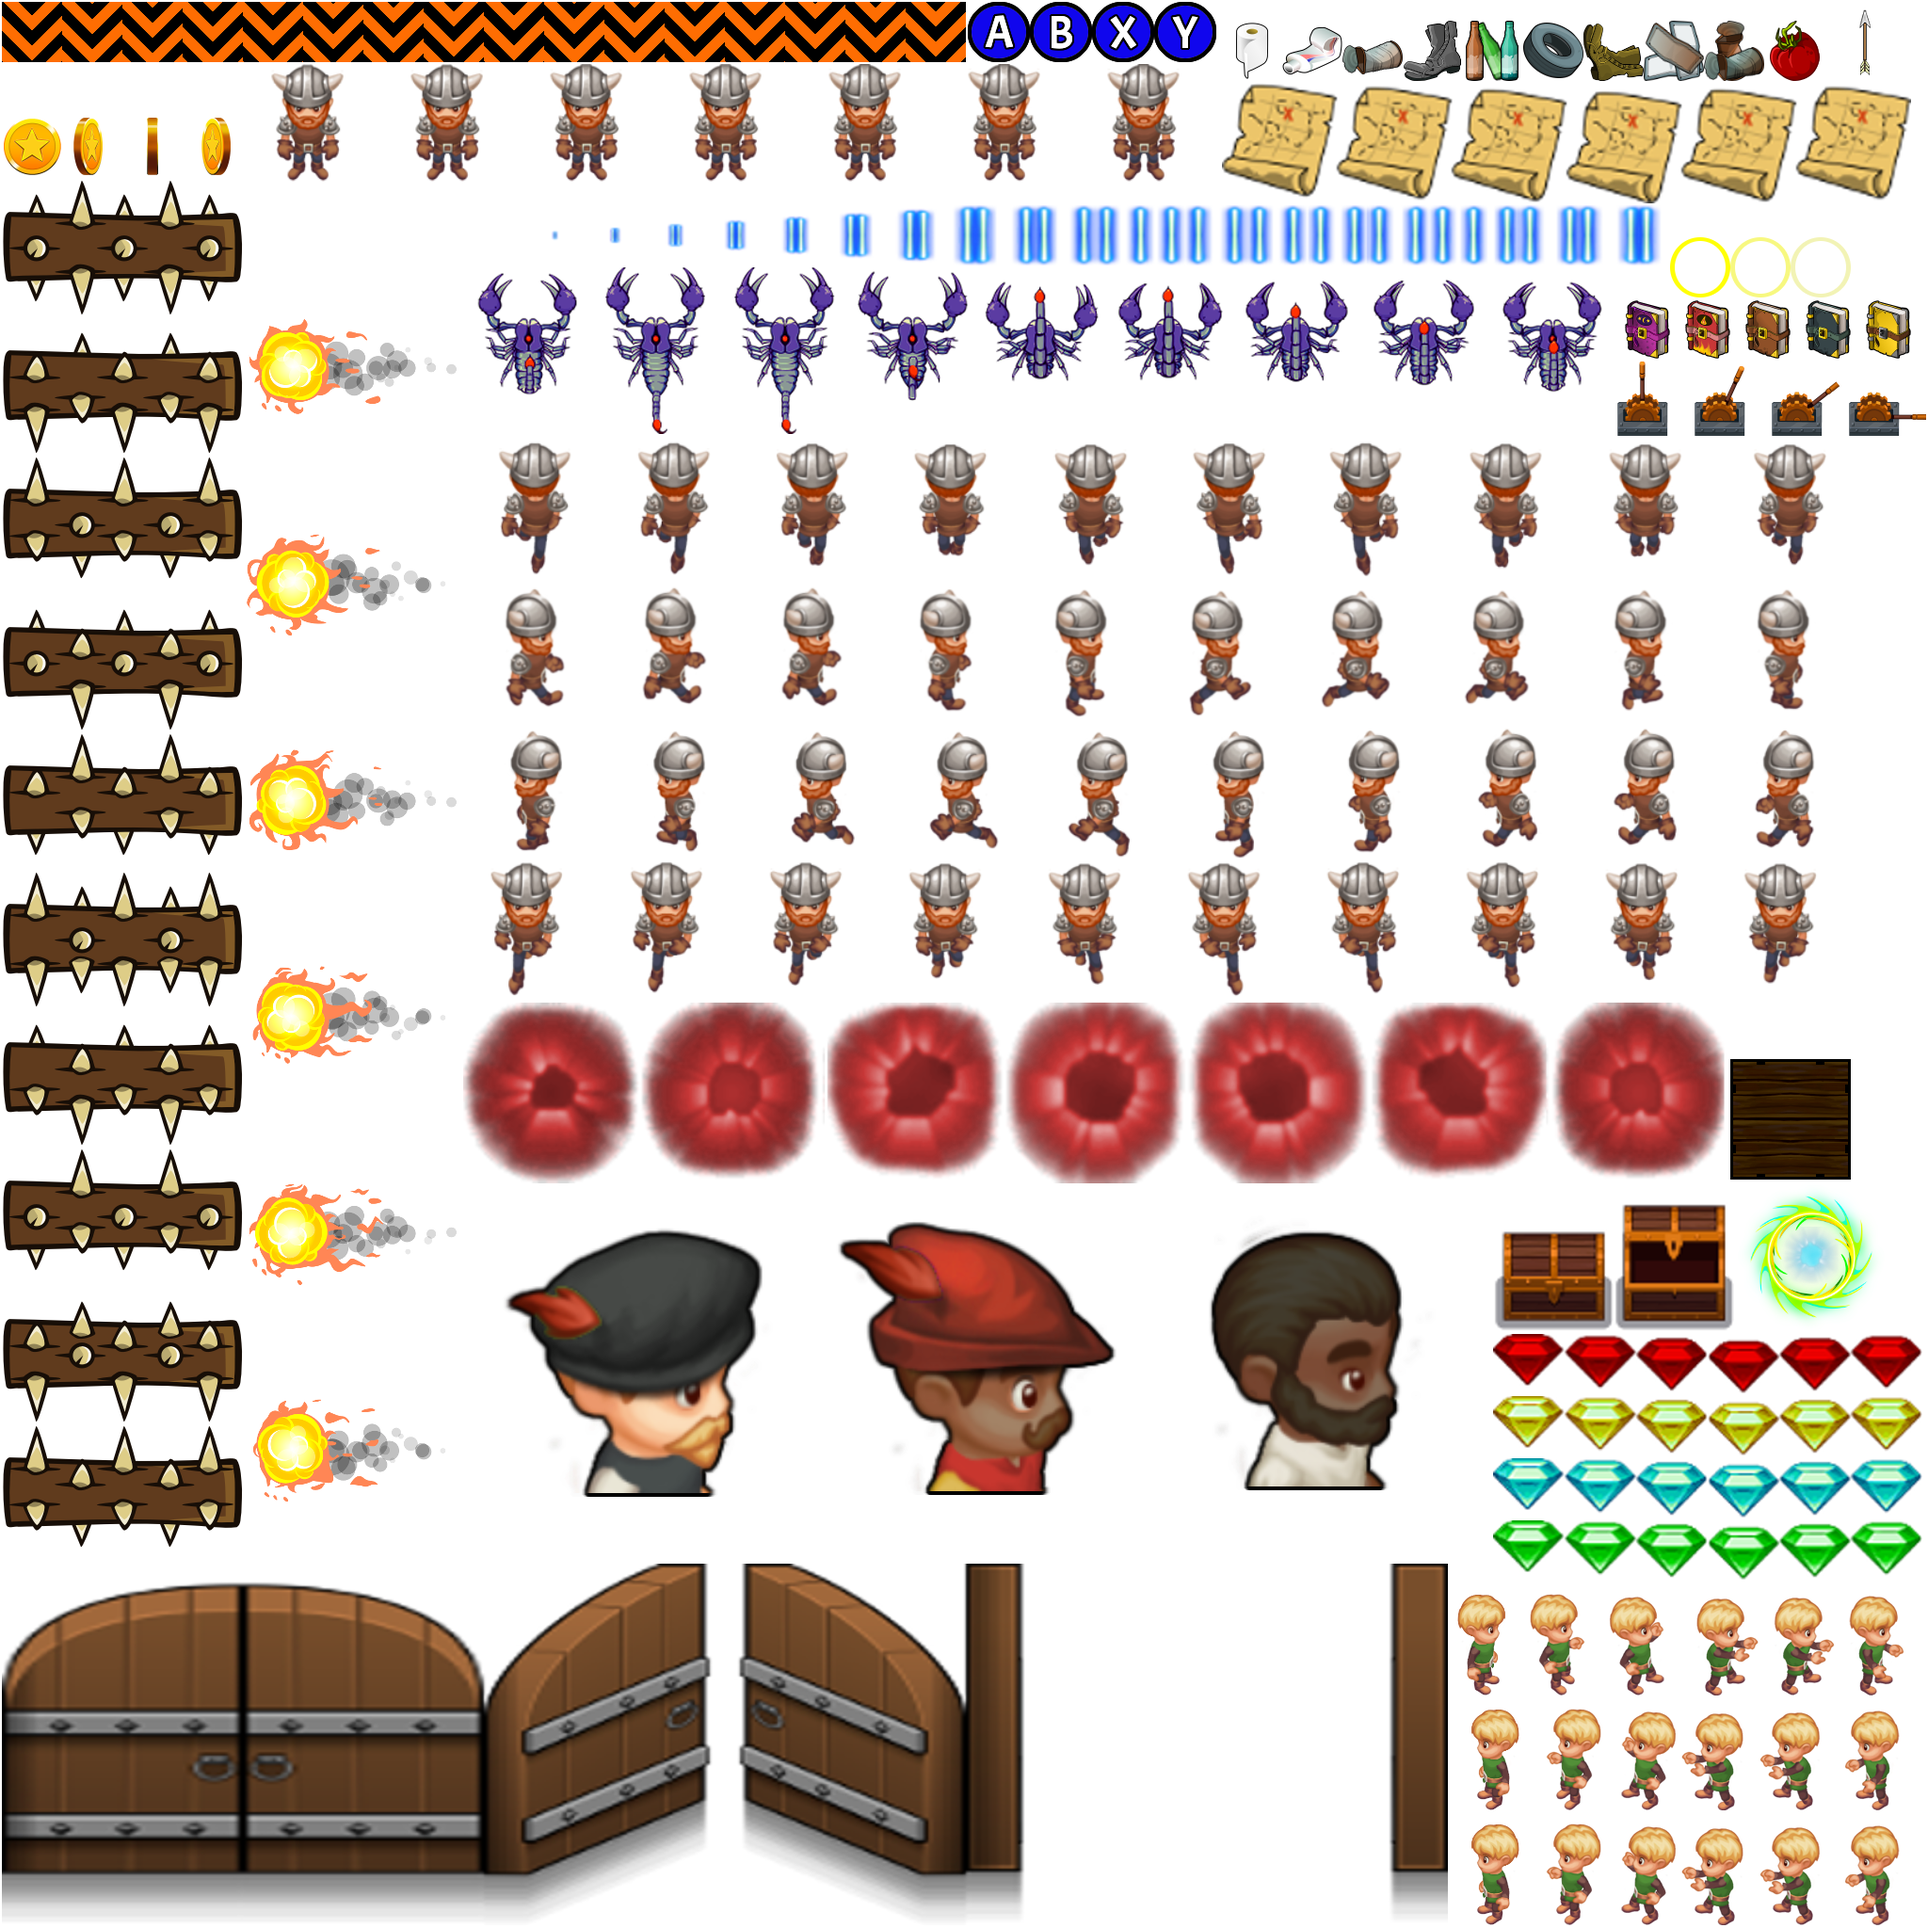
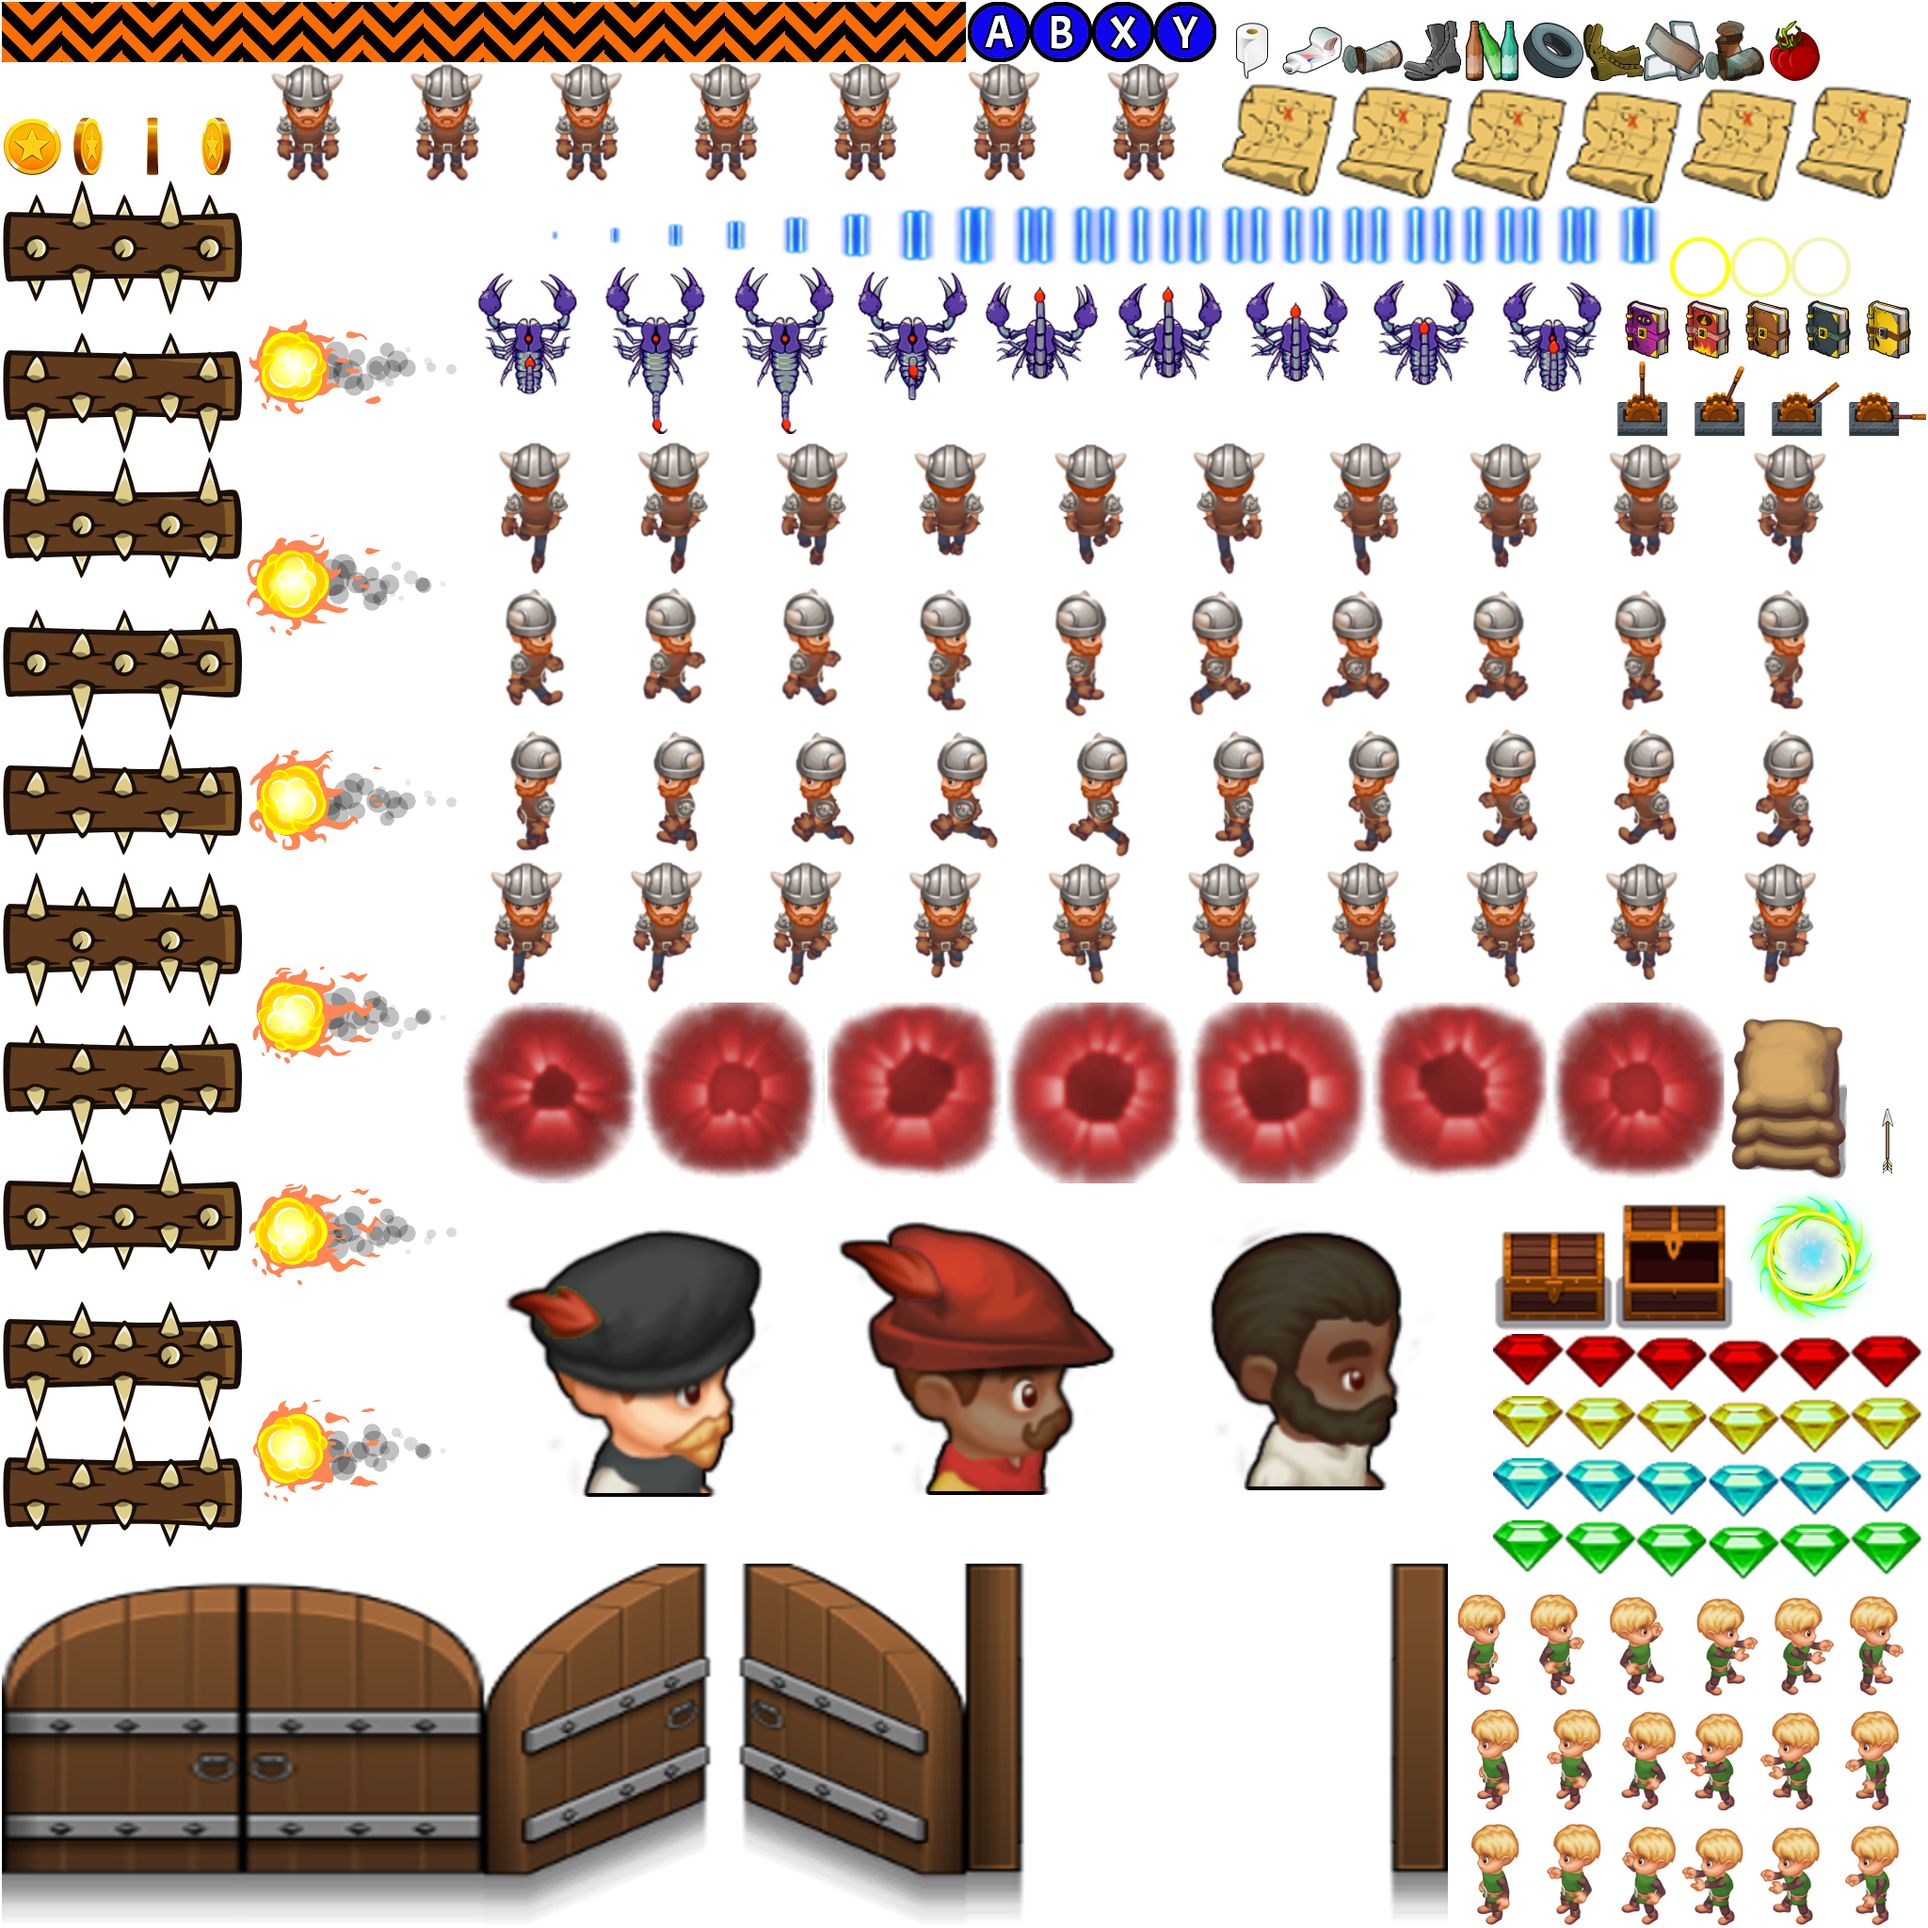
Essential backup

Changed region(s): [[0.875, 0.5312, 0.9688, 0.625]]

diff --git a/core/src/com/red7projects/dungeon/entities/characters/Decoration.java b/core/src/com/red7projects/dungeon/entities/characters/Decoration.java
@@ -25,6 +25,7 @@ import com.red7projects.dungeon.game.App;
 import com.red7projects.dungeon.graphics.Gfx;
 import com.red7projects.dungeon.graphics.GraphicID;
 import com.red7projects.dungeon.physics.Movement;
+import com.red7projects.dungeon.utils.logging.Trace;
 
 /**
  * Class for objects such as:-
@@ -95,12 +96,6 @@ public class Decoration extends GdxSprite implements CollisionListener
             elapsedAnimTime += Gdx.graphics.getDeltaTime();
             sprite.setRegion(app.entityUtils.getKeyFrame(animation, elapsedAnimTime, true));
         }
-    }
-
-    @Override
-    public void draw(final SpriteBatch spriteBatch)
-    {
-        super.draw(spriteBatch);
     }
 
     /**

diff --git a/core/src/com/red7projects/dungeon/assets/GameAssets.java b/core/src/com/red7projects/dungeon/assets/GameAssets.java
@@ -339,7 +339,7 @@ public class GameAssets
             new AssetSize(GraphicID.G_BARREL, 90, 152),
             new AssetSize(GraphicID.G_GLOW_EYES, 71, 64),
             new AssetSize(GraphicID.G_ALCOVE_TORCH, 64, 192),
-            new AssetSize(GraphicID.G_SACKS, 124, 170),
+            new AssetSize(GraphicID.G_SACKS, 124, 172),
 
             // Interactive items
             new AssetSize(GraphicID.G_FLOOR_BUTTON, 64, 64),
